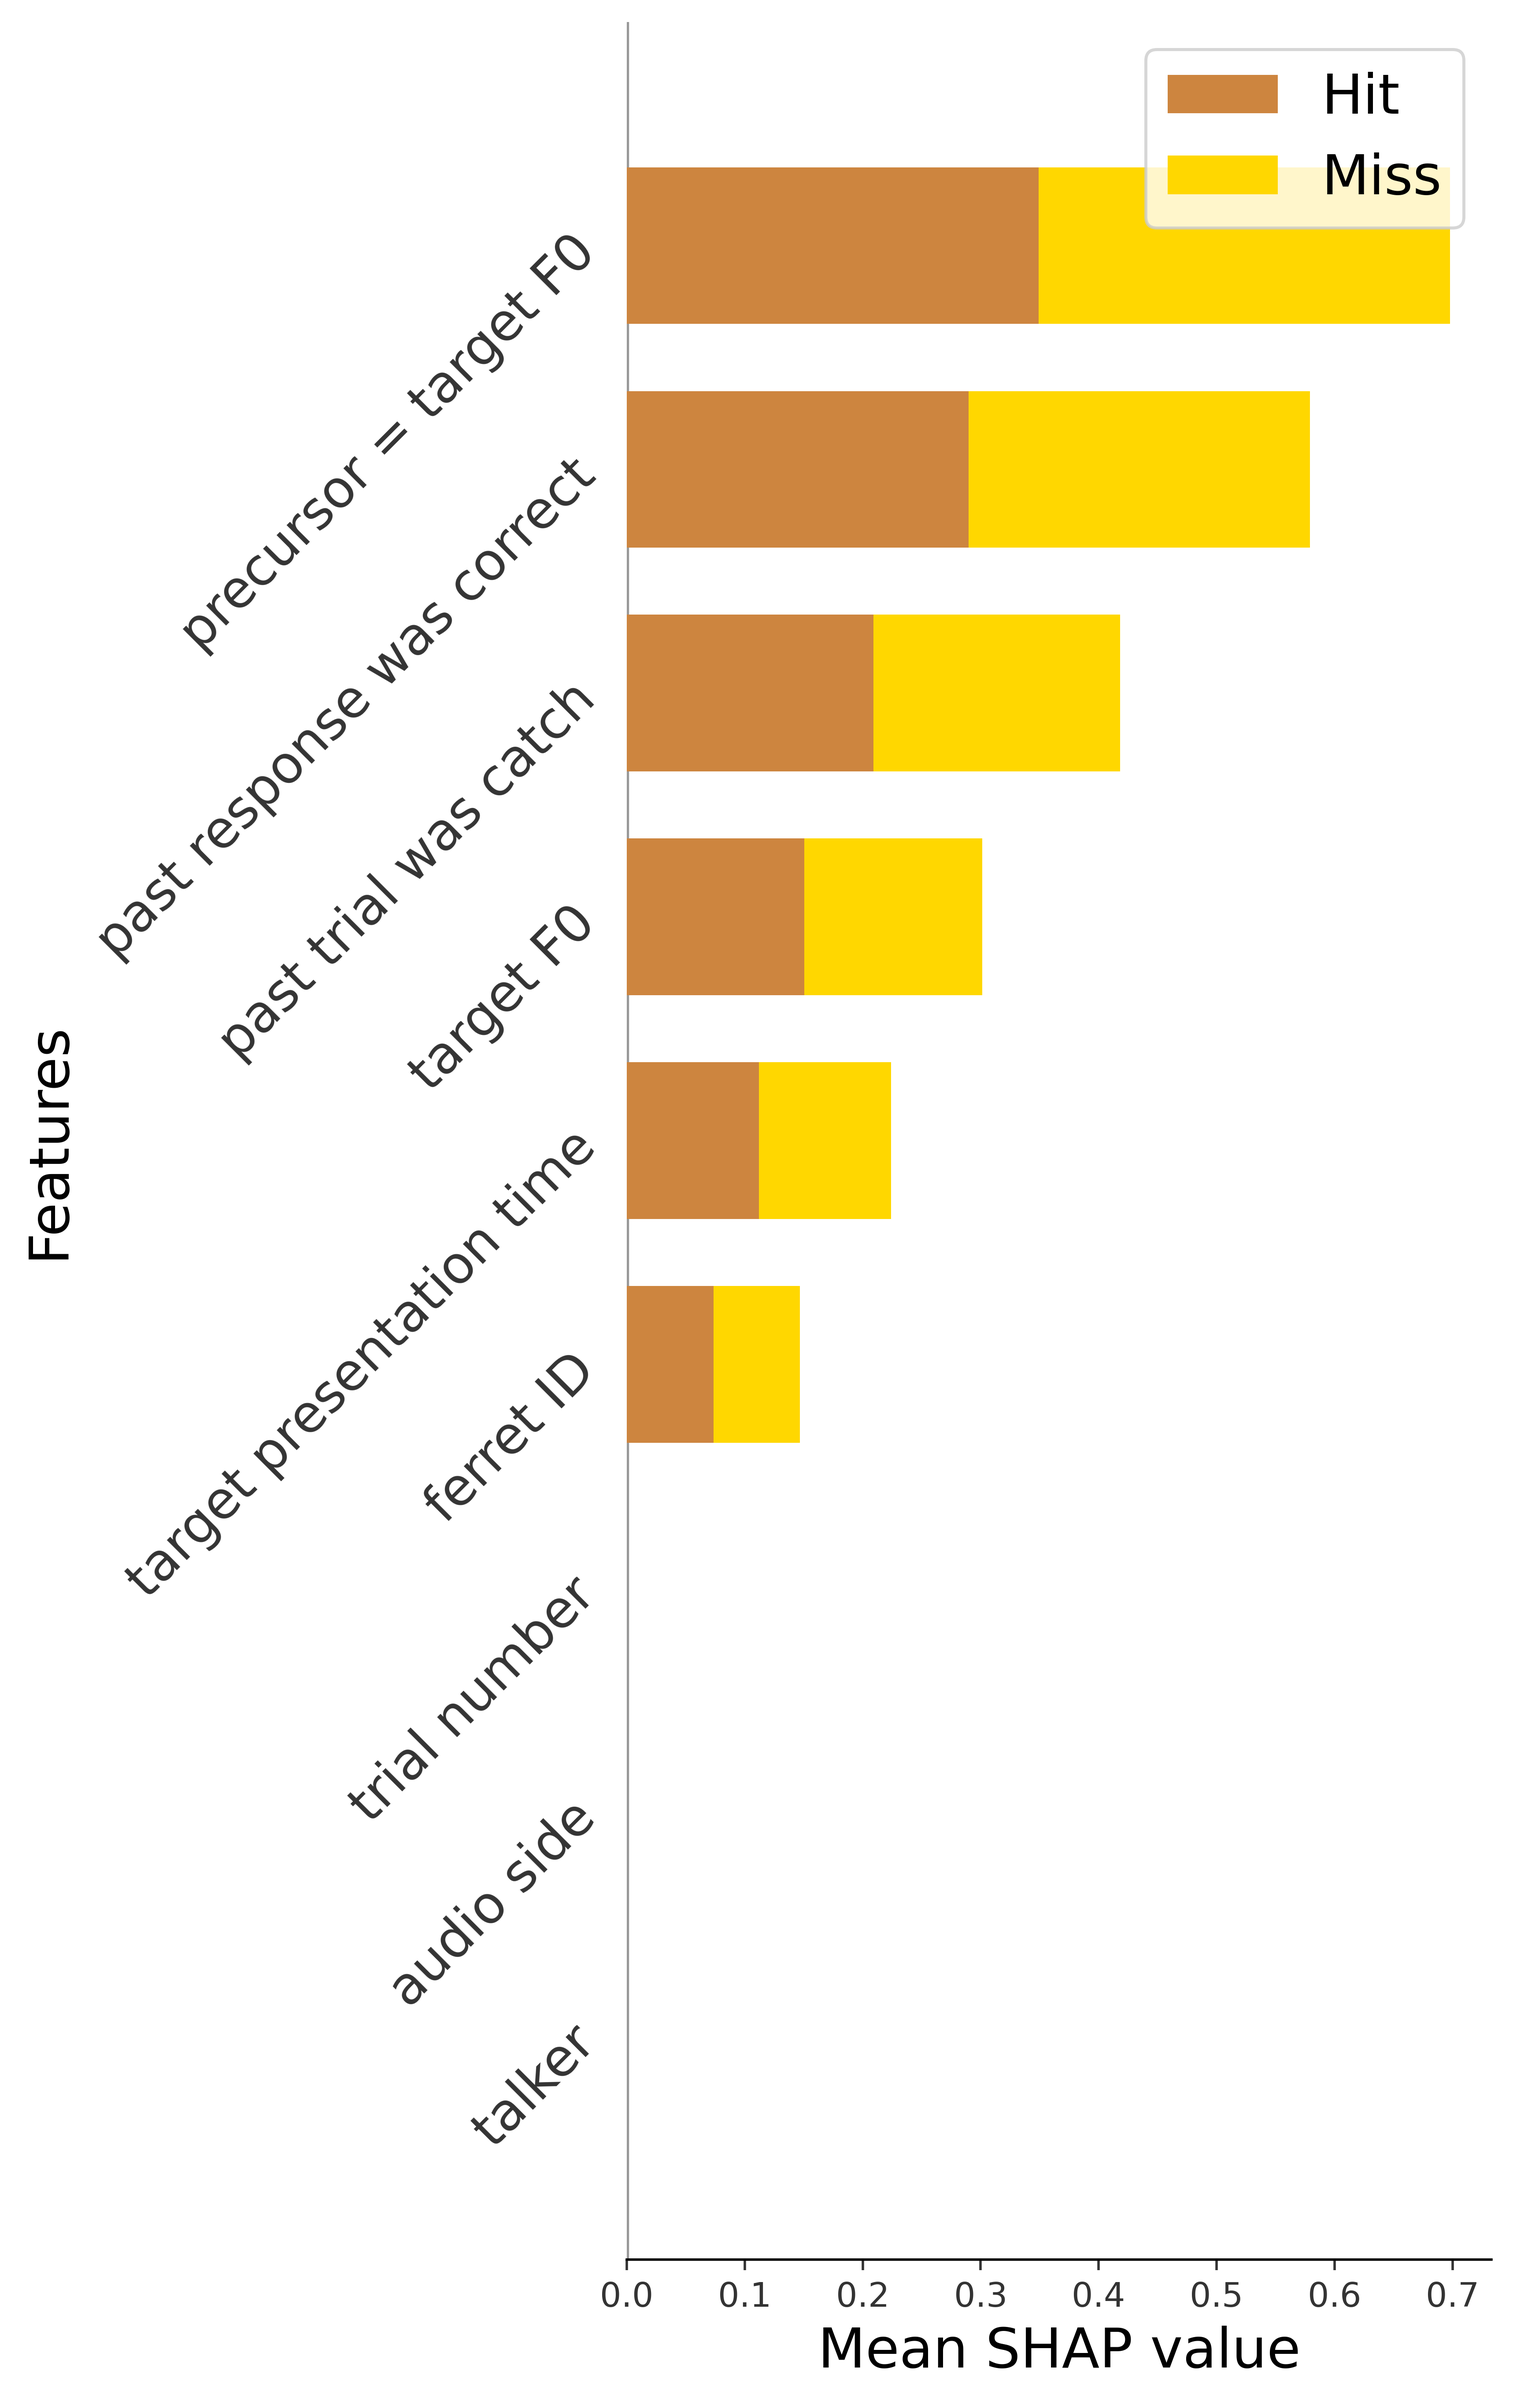
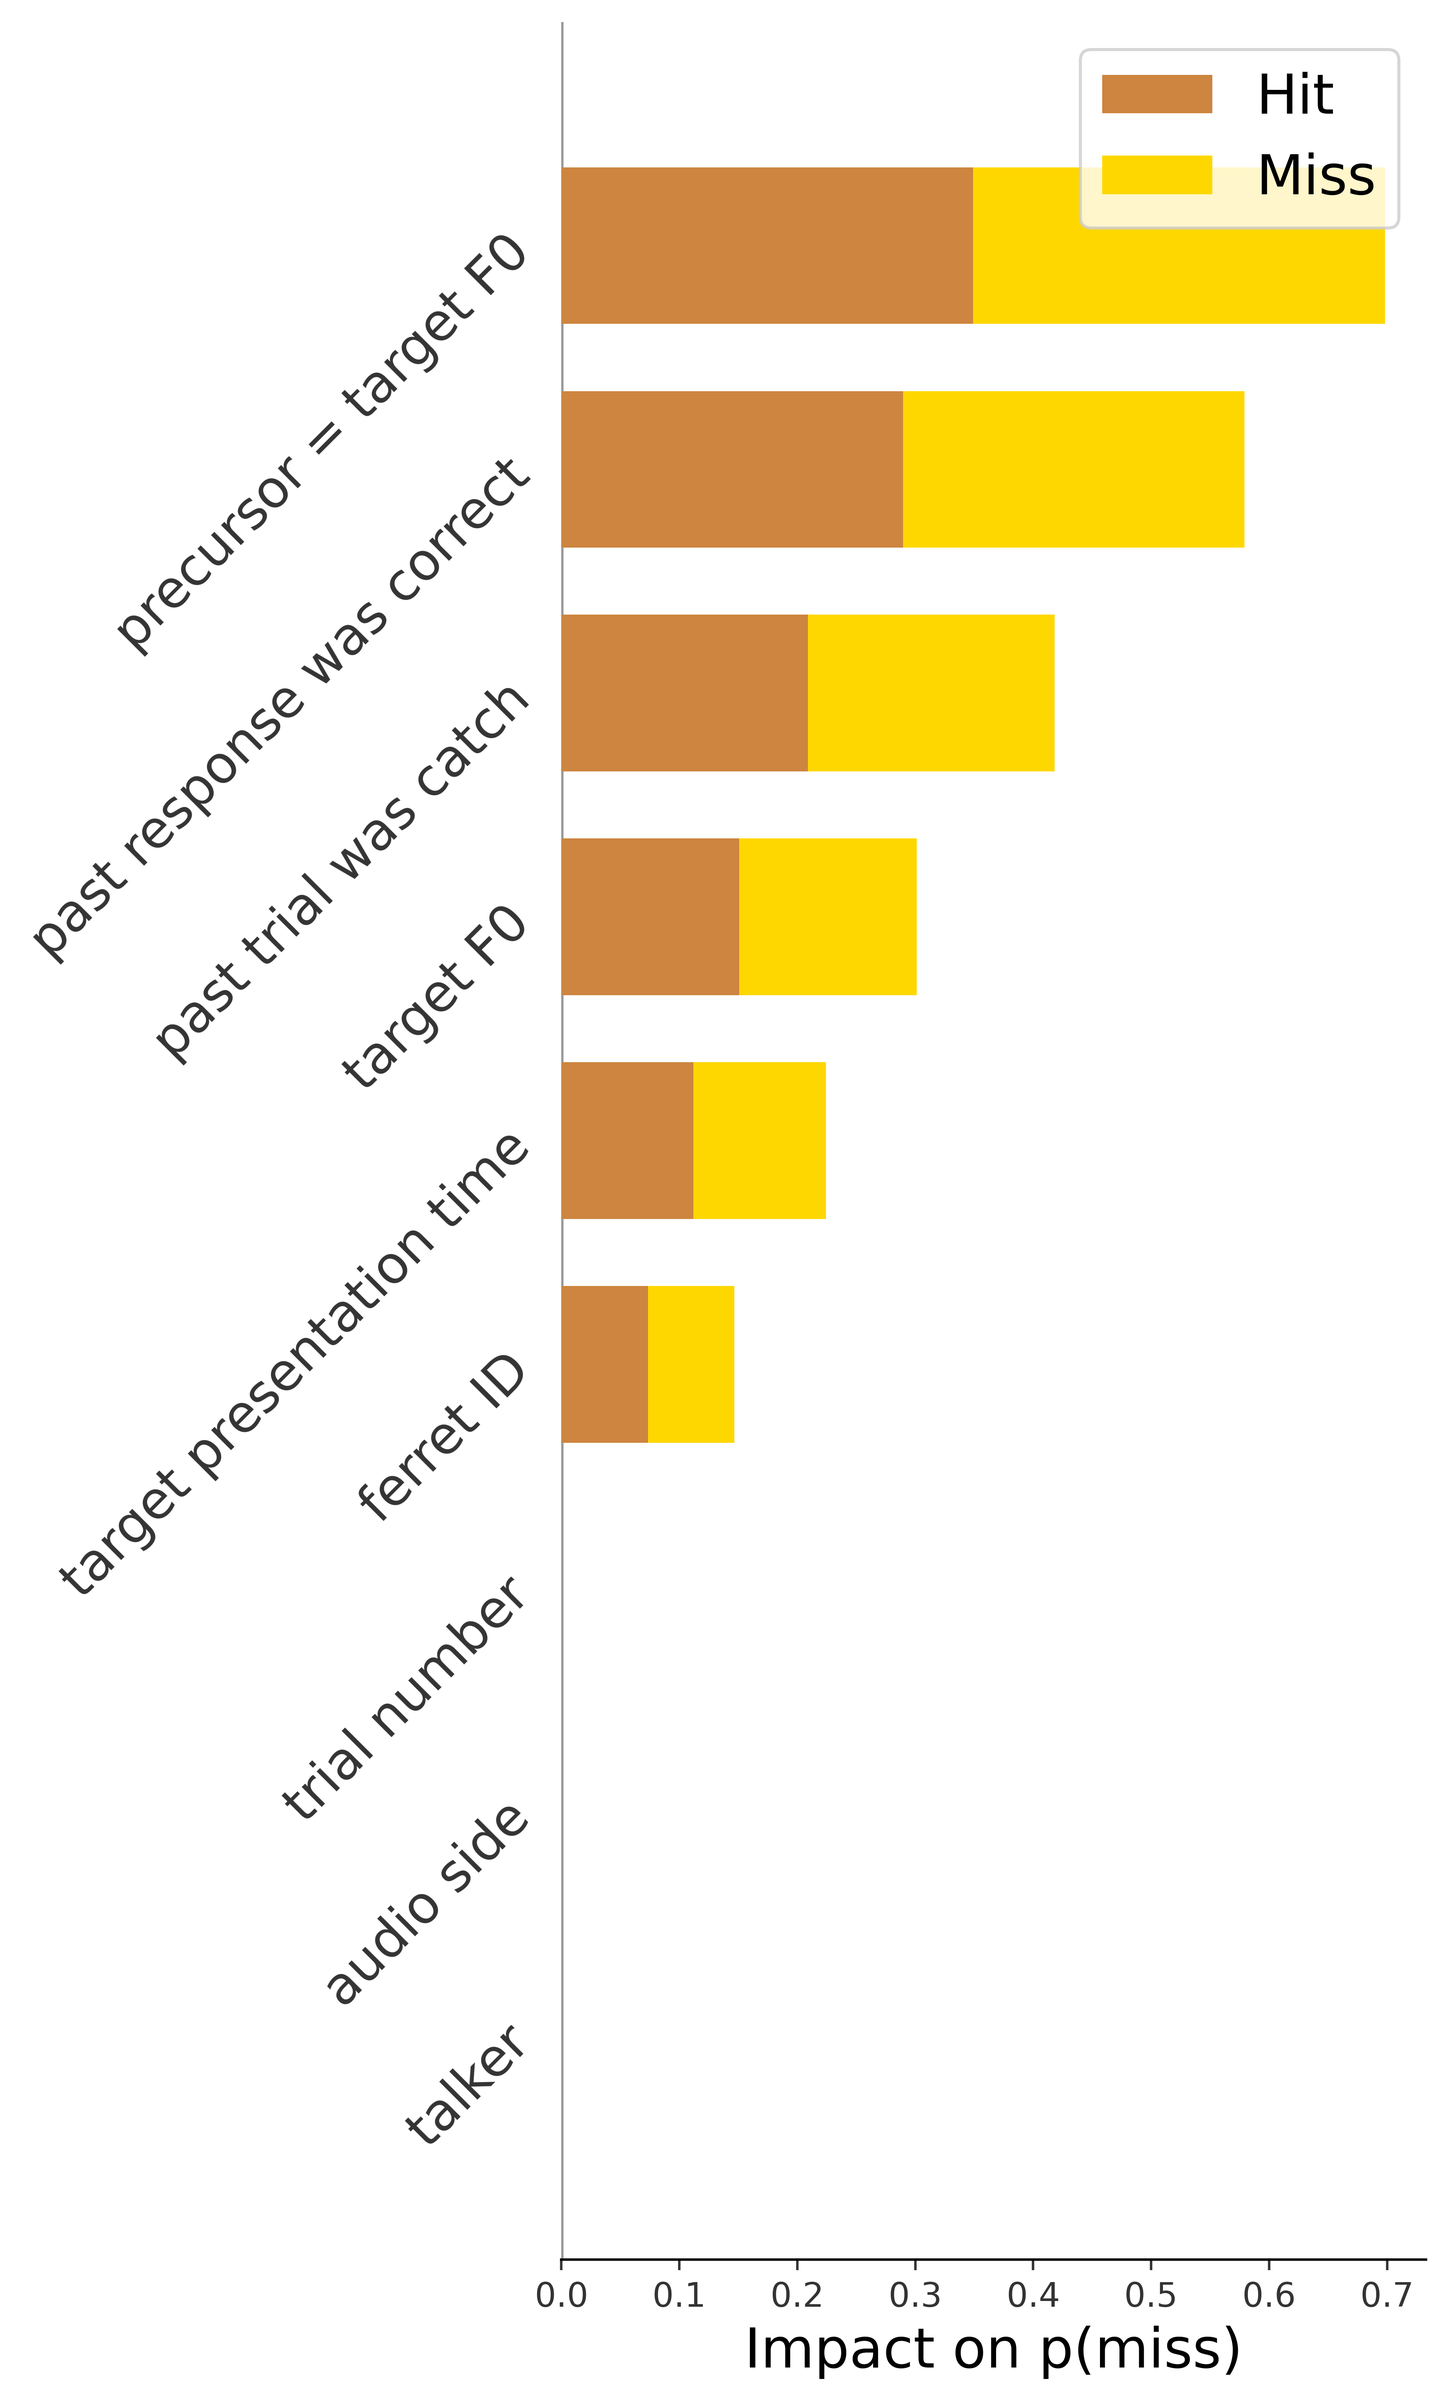
adding additional plot for supplemental

diff --git a/models/correctrespmissmodel.py b/models/correctrespmissmodel.py
@@ -330,8 +330,37 @@ def runlgbcorrectrespornotwithoptuna(dataframe, paramsinput=None, optimization =
     plt.savefig(fig_dir / 'ferretIDbysideofaudio_violin.png', dpi=500, bbox_inches='tight')
     plt.show()
 
+    ferret_ids = shap_values2[:, "ferret ID"].data
+    talker_values = shap_values2[:, "talker"].data
+    shap_values = shap_values2[:, "ferret ID"].values
 
+    # Create a DataFrame with the necessary data
+    data_df = pd.DataFrame({
+        "ferret ID": ferret_ids,
+        "talker": talker_values,
+        "SHAP value": shap_values
+    })
+    fig, ax = plt.subplots(figsize=(10, 6))
+    sns.violinplot(x="ferret ID", y="SHAP value", hue="talker", data=data_df, split=True, inner="quart",
+                   palette=custom_colors, ax=ax)
 
+    ax.set_xticks([0, 1, 2, 3, 4])
+    ax.set_xticklabels(['F1702', 'F1815', 'F1803', 'F2002', 'F2105'], fontsize=18, rotation=45)
+    ax.set_xlabel('Ferret ID', fontsize=18)
+    ax.set_ylabel('Impact on p(miss)', fontsize=18)  # Corrected y-label
+
+    # plt.title('Mean SHAP value over ferret ID', fontsize=18)
+
+    # Optionally add a legend
+    ax.legend(title="talker", fontsize=14, title_fontsize=16)
+    # change legend labels
+    handles, labels = ax.get_legend_handles_labels()
+    labels = ['Male', 'Female']
+    ax.legend(handles=handles[0:], labels=labels[0:], title="talker", fontsize=14, title_fontsize=16)
+    ax.set_title('Talker type', fontsize=25)
+
+    plt.savefig(fig_dir / 'ferretIDbytalkertype_violin.png', dpi=500, bbox_inches='tight')
+    plt.show()
 
     # mosaic = ['A', 'B', 'C'], ['D', 'B', 'E']
     # ferret_id_only = ['F1702', 'F1815', 'F1803', 'F2002', 'F2105']

diff --git a/models/runfalsealarmmodel.py b/models/runfalsealarmmodel.py
@@ -426,7 +426,7 @@ def plotfalsealarmmodel(xg_reg, ypred, y_test, results, X_train, y_train, X_test
     # Get the plot's Patch objects
     labels = [item.get_text() for item in ax.get_yticklabels()]
     print(labels)
-    fig.set_size_inches(6, 12)
+    fig.set_size_inches(7, 12)
     ax.set_xlabel('Mean SHAP value', fontsize=18)
     ax.set_yticks(range(len(feature_labels)))
     ax.set_yticklabels(np.flip(feature_labels), fontsize=17, rotation = 45)
